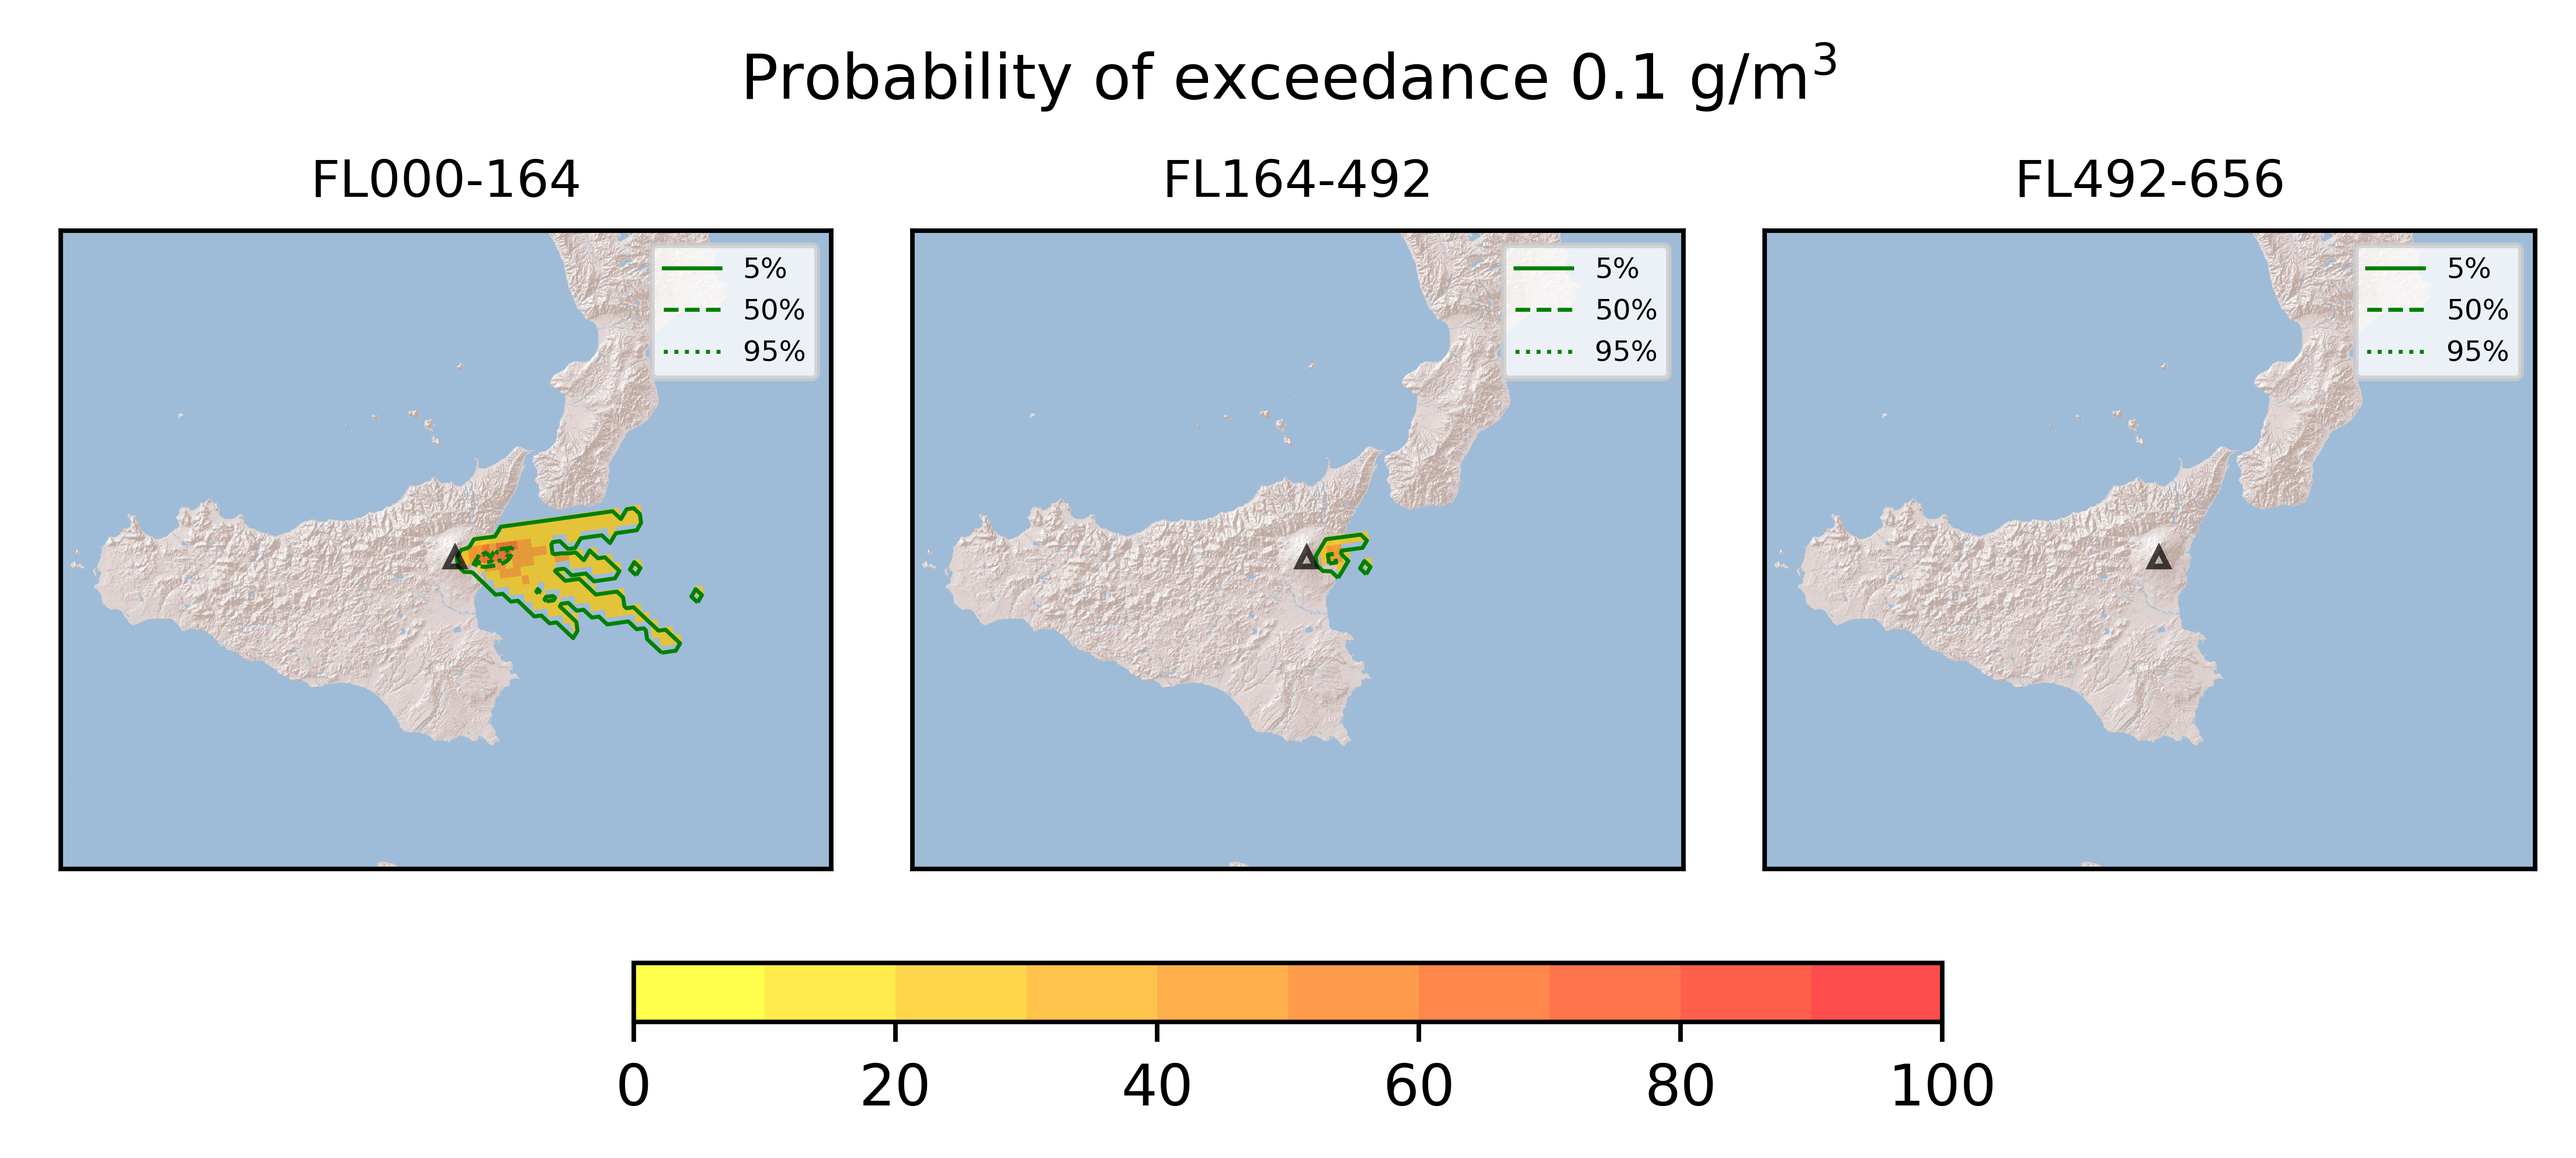
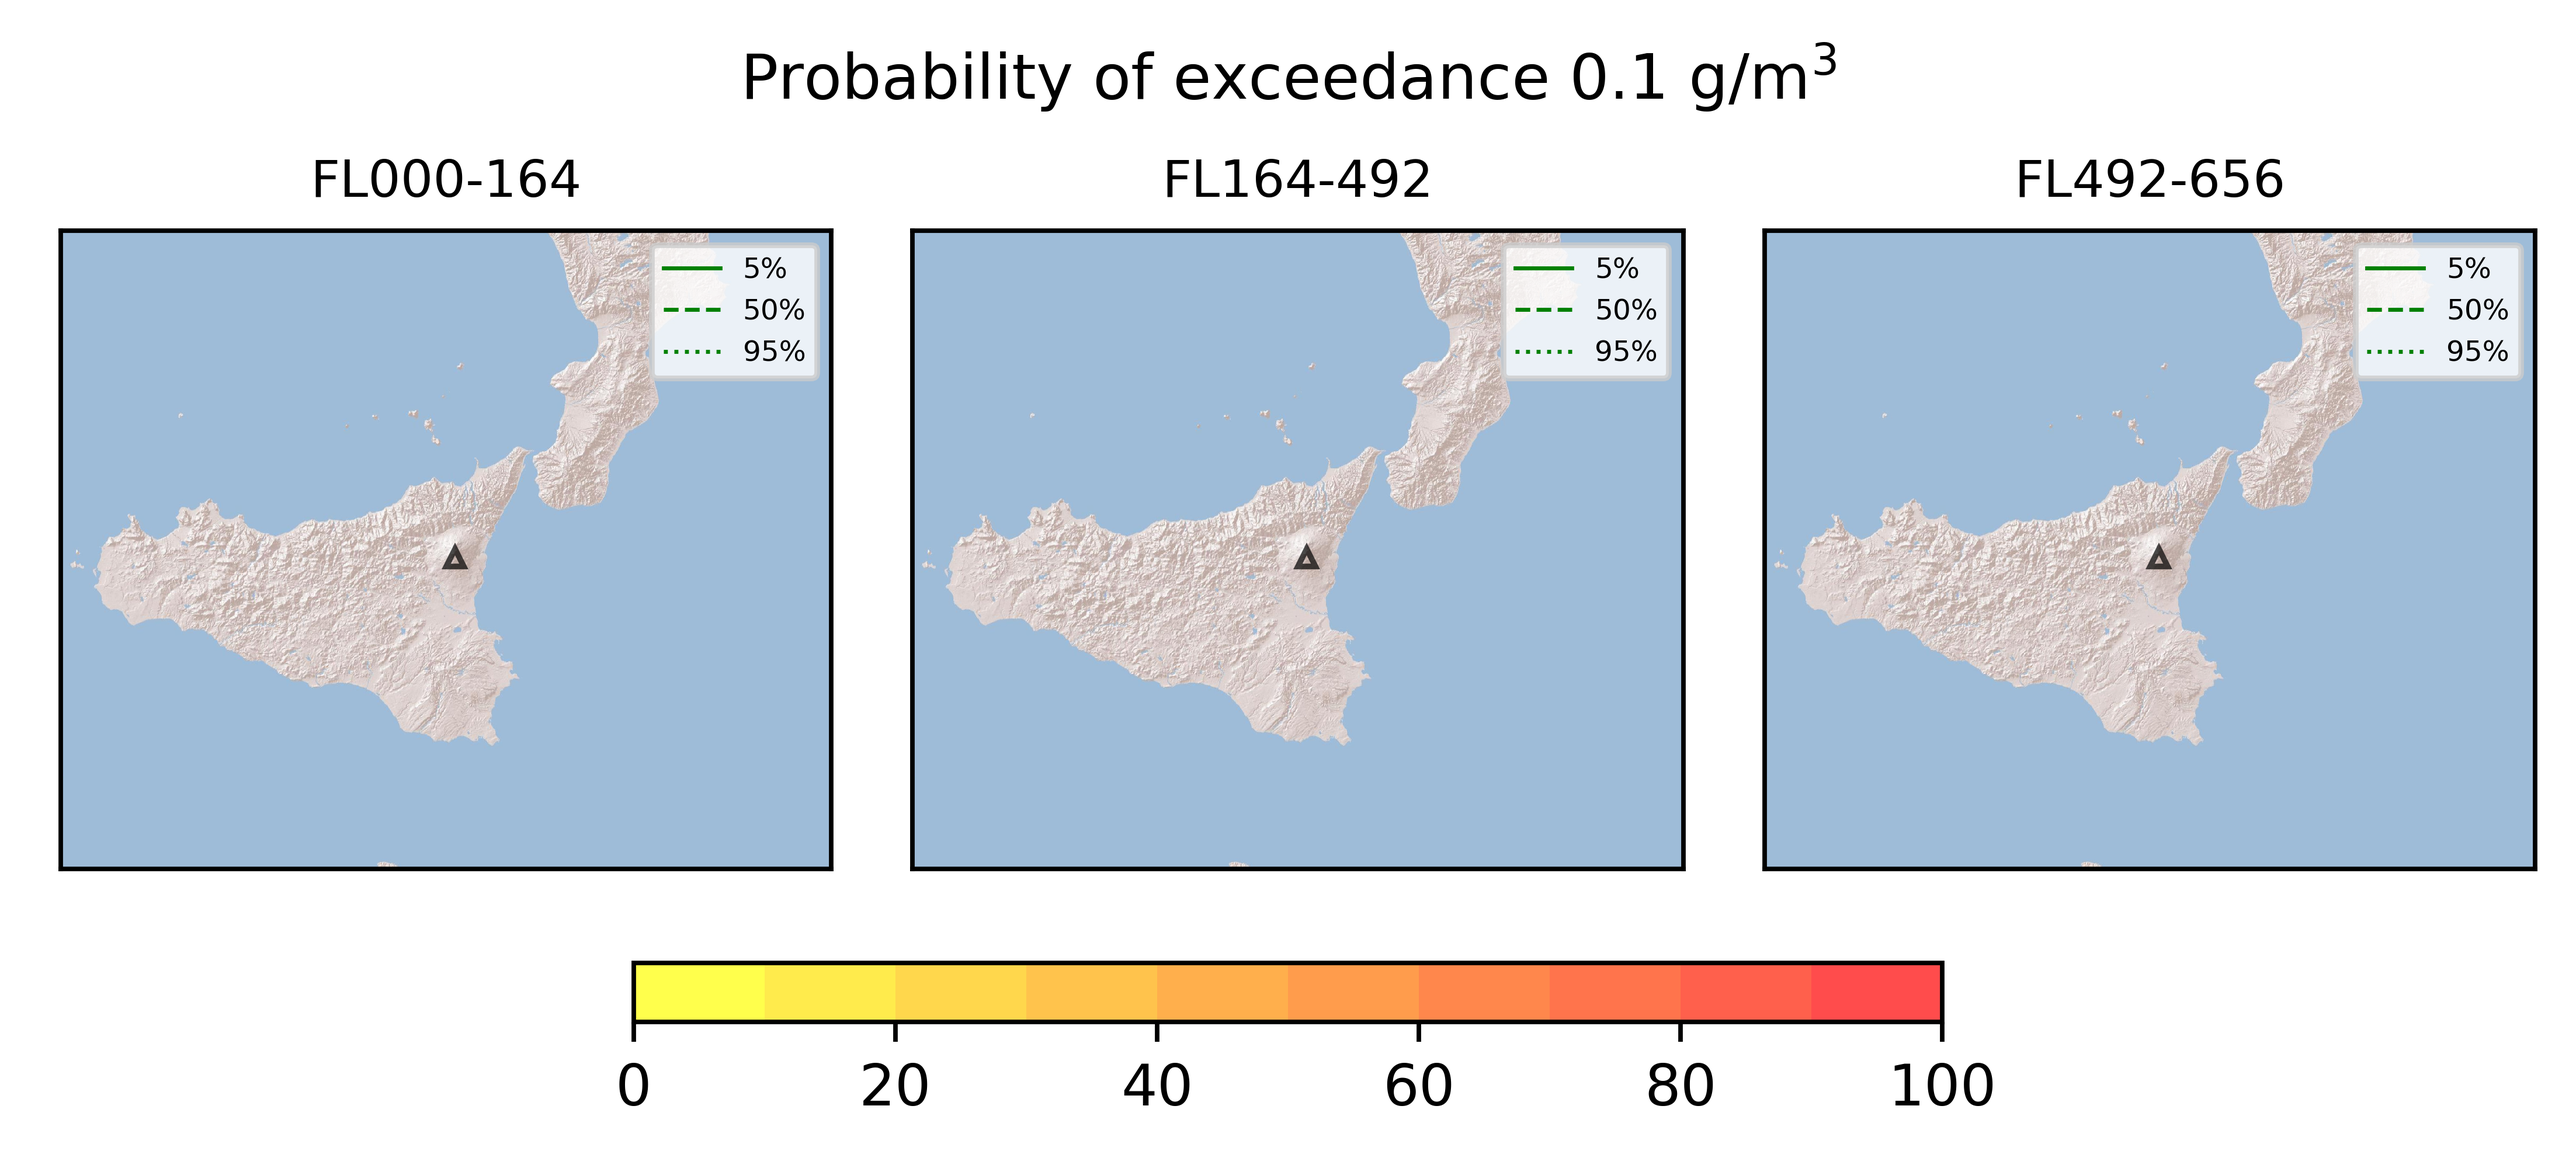
upload results

Changed region(s): [[0.1553, 0.4307, 0.2796, 0.5537], [0.4971, 0.4614, 0.5281, 0.4922]]

diff --git a/FORECAST_RESULTS/20210825_1730Z/README.md b/FORECAST_RESULTS/20210825_1730Z/README.md
@@ -8,6 +8,7 @@ Contents
 * [Forecast products](#forecast-products)
 	* [Forecast at 2021-08-25 20:30 Z - Ongoing Eruption scenario](#forecast-at-2021-08-25-2030-z---ongoing-eruption-scenario)
 	* [Forecast at 2021-08-25 23:30 Z - Ongoing Eruption scenario](#forecast-at-2021-08-25-2330-z---ongoing-eruption-scenario)
+	* [Forecast at 2021-08-25 20:30 Z - Terminated Erupion from Orange VONA](#forecast-at-2021-08-25-2030-z---terminated-erupion-from-orange-vona)
 
 # Forecast products
 
@@ -102,6 +103,52 @@ Contents
 
 ### Atmosphere 2021-08-25 23:30 Z
   
-![](./figures/probability_air_2021_08_25_2330_scenario_1_conclev_1.png)  
+![](./figures/probability_air_2021_08_25_2330_scenario_1_conclev_1.png)
+## Forecast at 2021-08-25 20:30 Z - Terminated Erupion from Orange VONA
+  
+
+|Eruption start [Z]|Eruption end [Z]|Forecast time [Z]|Column height asl [m]|
+| :--- | :--- | :--- | :--- |
+|2021-08-25 17:30:00|2021-08-25 19:20:00|2021-08-25 20:30:00|[6000 m, 12000 m]|
+  
+  
+
+|Percentile|MER [kg/s¹]|Mass in the air [kg]|Mass on the ground [kg]|
+| :--- | :--- | :--- | :--- |
+|5th|0.00e+00|0.00e+00|0.00e+00|
+|50th|0.00e+00|0.00e+00|0.00e+00|
+|95th|0.00e+00|0.00e+00|0.00e+00|
+  
+
+### Ground 2021-08-25 20:30 Z
+  
+![](./figures/probability_grd_2021_08_25_2030_scenario_1.png)  
+  
+  
+  
+  
+  
+  
+  
+  
+  
+
+|Location|Ground load [kg/m²] 5th perc|Ground load [kg/m²] 50th perc|Ground load [kg/m²] 95th perc|
+| :--- | :--- | :--- | :--- |
+|Catania AP (1)|0.00e+00|0.00e+00|0.00e+00|
+|Siracusa (2)|0.00e+00|0.00e+00|0.00e+00|
+|Reggio Calabria AP (3)|0.00e+00|0.00e+00|0.00e+00|
+|Palermo AP (4)|0.00e+00|0.00e+00|0.00e+00|
+|Nicolosi (5)|0.00e+00|0.00e+00|0.00e+00|
+|Zafferana (6)|0.00e+00|0.00e+00|0.00e+00|
+|Linguaglossa (7)|0.00e+00|0.00e+00|0.00e+00|
+|Randazzo (8)|0.00e+00|0.00e+00|0.00e+00|
+|Bronte (9)|0.00e+00|0.00e+00|0.00e+00|
+|Biancavilla (10)|0.00e+00|0.00e+00|0.00e+00|
+  
+
+### Atmosphere 2021-08-25 20:30 Z
+  
+![](./figures/probability_air_2021_08_25_2030_scenario_1_conclev_1.png)  
 Go to [Supplementary page](Supplementary_page.md)  
 Go to [Main directory](https://github.com/federicapardini/Real_time_ash_forecast)
